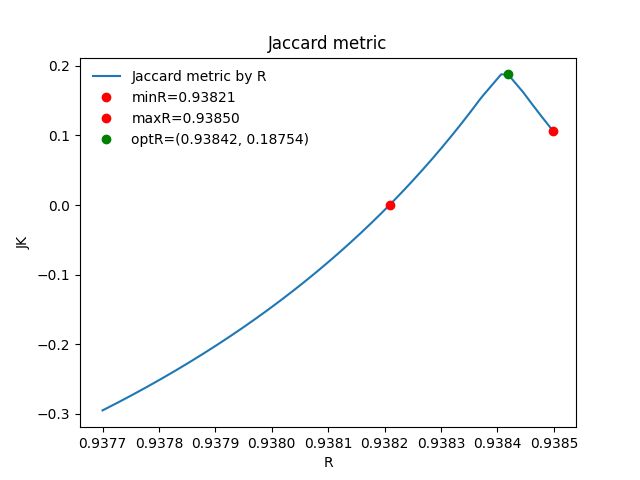
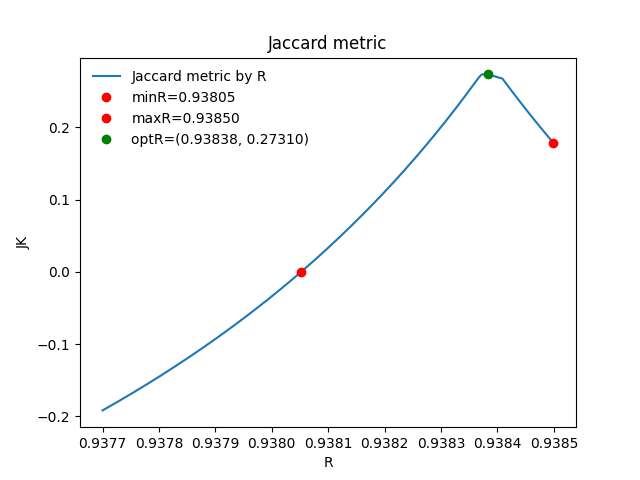
Added picture with interval regression and Jaccard for all steps

diff --git a/main_intervals.py b/main_intervals.py
@@ -85,6 +85,25 @@ def draw_all_intervals(intervals, optimal_m, need_save=True, save_path=''):
     plt.show()
 
 
+def draw_all_intervals_edge(intervals, start, optimal_m, need_save=True, save_path=''):
+    data_len = (len(intervals[0]))
+    x = np.arange(start, start + data_len, 1, dtype=int)
+    y_err = [(interval[1] - interval[0]) / 2 for interval in intervals[0]]
+    y = [interval[1] - y_err[num] for num, interval in enumerate(intervals[0])]
+    plt.errorbar(x, y, yerr=y_err, ecolor='cyan', label='intervals_ch_1', elinewidth=0.8, capsize=4,
+                 capthick=1)
+    y_err = [optimal_m * (interval[1] - interval[0]) / 2 for interval in intervals[1]]
+    y = [optimal_m * interval[1] - y_err[num] for num, interval in enumerate(intervals[1])]
+    plt.errorbar(x, y, yerr=y_err, ecolor='red', label='intervals_ch_2', elinewidth=0.8, capsize=4,
+                 capthick=1)
+    plt.legend(frameon=False)
+    plt.title(f'Intervals intersection')
+    plt.xlabel("n")
+    plt.ylabel("mV")
+    if need_save:
+        plt.savefig(f'{save_path}/weighted_intervals.png')
+    plt.show()
+
 def get_regression_intervals(params, len_of_intervals=200):
     x = np.arange(1, len_of_intervals + 1, 1, dtype=int)
     intervals = []
@@ -115,15 +134,134 @@ def draw_interval_regression(intervals, params, need_save=True, save_path=''):
         plt.show()
 
 
+def draw_interval_with_edge(intervals, edge_points, need_save=True, save_path=''):
+    data_len = (len(intervals[0]))
+    x = np.arange(1, data_len + 1, 1, dtype=int)
+    for num, data_l in enumerate(intervals, start=0):
+        y_err = [(interval[1] - interval[0]) / 2 for interval in intervals[num]]
+        y = [interval[1] - y_err[num] for num, interval in enumerate(intervals[num])]
+        plt.errorbar(x[:edge_points[num][0]], y[:edge_points[num][0]], yerr=y_err[:edge_points[num][0]], ecolor='cyan', label=f'set 1, {edge_points[num][0] - 1}', elinewidth=0.8, capsize=4,
+                     capthick=1)
+        plt.errorbar(x[edge_points[num][0]:edge_points[num][1]], y[edge_points[num][0]:edge_points[num][1]], yerr=y_err[edge_points[num][0]:edge_points[num][1]], ecolor='green',
+                     label=f'set {edge_points[num][0]}, {edge_points[num][1] - 1}', elinewidth=0.8, capsize=4,
+                     capthick=1)
+        plt.errorbar(x[edge_points[num][1]:], y[edge_points[num][1]:], yerr=y_err[edge_points[num][1]:],
+                     ecolor='red',
+                     label=f'set {edge_points[num][1]}, 200', elinewidth=0.8, capsize=4,
+                     capthick=1)
+        plt.legend(frameon=False)
+        plt.title(f'Chanel_{num + 1} sets of intervals')
+        plt.xlabel("n")
+        plt.ylabel("mV")
+        if need_save:
+            plt.savefig(f'{save_path}/sets_of_intervals_ch_{num + 1}.png')
+        plt.show()
+
+
+def dif_drift_component_edge(interval_d, edge_points, drift_params_3):
+    new_list = []
+    for list_num, list_ in enumerate(interval_d):
+        new_list__ = []
+        for num, drift_param in enumerate(drift_params_3[list_num]):
+            if num == 0:
+                new_list_ = list_[:edge_points[list_num][0]]
+                start = 0
+            elif num == 1:
+                new_list_ = list_[edge_points[list_num][0]:edge_points[list_num][1]]
+                start = edge_points[list_num][0]
+            else:
+                new_list_ = list_[edge_points[list_num][1]:]
+                start = edge_points[list_num][1]
+            for num_, interval in enumerate(new_list_, start=start):
+                new_list__.append([interval[0] - (num_ + 1) * drift_param[0][1],
+                                  interval[1] - (num_ + 1) * drift_param[0][0]])
+        new_list.append(new_list__)
+    return new_list
+
+
+def get_regression_intervals_edge(edge_points, params, len_of_intervals=200):
+    intervals = []
+    for x in range(edge_points[0]):
+        intervals.append([params[0][0][0] * (x + 1) + params[0][1][0], params[0][0][1] * (x + 1) + params[0][1][1]])
+    for x in range(edge_points[0], edge_points[1]):
+        intervals.append([params[1][0][0] * (x + 1) + params[1][1][0], params[1][0][1] * (x + 1) + params[1][1][1]])
+    for x in range(edge_points[1], len_of_intervals):
+        intervals.append([params[2][0][0] * (x + 1) + params[2][1][0], params[2][0][1] * (x + 1) + params[2][1][1]])
+    return intervals
+
+
+def draw_interval_regression_edge(intervals, edge_points, params3, need_save=True, save_path=''):
+    data_len = (len(intervals[0]))
+    x = np.arange(1, data_len + 1, 1, dtype=int)
+    for num, data_l in enumerate(intervals, start=0):
+        y_err = [(interval[1] - interval[0]) / 2 for interval in intervals[num]]
+        y = [interval[1] - y_err[num] for num, interval in enumerate(intervals[num])]
+        plt.errorbar(x, y, yerr=y_err, ecolor='cyan', label=f'intervals_ch_{num + 1}', elinewidth=0.8, capsize=4,
+                     capthick=1)
+        reg_intervals = get_regression_intervals_edge(edge_points[num], params3[num])
+        y_err = [(interval[1] - interval[0]) / 2 for interval in reg_intervals]
+        y = [interval[1] - y_err[num] for num, interval in enumerate(reg_intervals)]
+        plt.errorbar(x, y, yerr=y_err, ecolor='red', label='interval regression', elinewidth=0.8, capsize=4,
+                     capthick=1)
+        plt.legend(frameon=False)
+        plt.title(f'Chanel_{num + 1} interval regression with 3 section')
+        plt.xlabel("n")
+        plt.ylabel("mV")
+        if need_save:
+            plt.savefig(f'{save_path}/regression_intervals_with_3_section_ch_{num + 1}.png')
+        plt.show()
+
+
+def get_out_coeff(data_list):
+    def get_point(interval):
+        interval_r = (interval[1] - interval[0]) / 2
+        return interval[1] - interval_r
+    out_coeff_l = []
+    for i in range(len(data_list[0])):
+        out_coeff_l.append(get_point(data_list[0][i]) / get_point(data_list[1][i]))
+    return out_coeff_l
+
 if __name__ == "__main__":
     data_postfix = '800nm_0.23mm.csv'
     interval_data = read_data_with_intervals(
         [f'./data/ch_1/Канал 1_{data_postfix}', f'./data/ch_2/Канал 2_{data_postfix}'])
     save_p = f'./pictures/intervals'
-    intervals_regression_drift_params = [[3.4551e-06, 4.2070e-06], [5.1628e-06, 6.2094e-06]]
-    intervals_regression_params = [([3.4551e-06, 4.2070e-06], [4.7202e-01, 4.7214e-01]), ([5.1628e-06, 6.2094e-06],
-                                                                                          [5.0301e-01, 5.0312e-01])]
-    draw_interval_regression(interval_data, intervals_regression_params, True, save_path=save_p)
-    intervals_w_o_drift = dif_drift_component(interval_data, intervals_regression_drift_params)
-    opt_m = get_inner_r(intervals_w_o_drift, [0.9377, 0.9385], True, save_path=save_p)
-    draw_all_intervals(intervals_w_o_drift, opt_m[0], True, save_path=save_p)
+    #intervals_regression_drift_params = [[3.4551e-06, 4.2070e-06], [5.1628e-06, 6.2094e-06]]
+    #intervals_regression_params = [([3.4551e-06, 4.2070e-06], [4.7202e-01, 4.7214e-01]), ([5.1628e-06, 6.2094e-06],
+   #                                                                                       [5.0301e-01, 5.0312e-01])]
+    #draw_interval_regression(interval_data, intervals_regression_params, True, save_path=save_p)
+    #intervals_w_o_drift = dif_drift_component(interval_data, intervals_regression_drift_params)
+
+    #opt_m = get_inner_r(intervals_w_o_drift, [0.9377, 0.9385], True, save_path=save_p)
+   # draw_all_intervals(intervals_w_o_drift, opt_m[0], True, save_path=save_p)
+    #draw_interval_with_edge(interval_data, [[43, 178], [41, 190]], True, save_path=save_p)
+    edge_points_ = [[43, 178], [41, 190]]
+    intervals_regression_params_3 = [[([8.3824e-07, 1.0232e-05], [4.7195e-01, 4.7214e-01]),
+                                      ([1.2508e-06, 4.1690e-06], [4.7202e-01, 4.7235e-01]),
+                                      ([2.6455e-06, 1.8289e-05], [4.6932e-01, 4.7230e-01])],
+                                     [([2.4444e-06, 1.1782e-05], [5.0295e-01, 5.0313e-01]),
+                                      ([3.8147e-06, 6.2514e-06], [5.0300e-01, 5.0329e-01]),
+                                      ([0.0, 3.7425e-05], [4.9690e-01, 5.0420e-01])]]
+    intervals_reg_w_o_drift = dif_drift_component_edge(interval_data, edge_points_, intervals_regression_params_3)
+    #draw_interval_regression_edge(interval_data, edge_points_, intervals_regression_params_3, True, save_path=save_p)
+    out_coeff = get_out_coeff([interval_data[0][:41], interval_data[1][:41]])
+    R_outer = [min(out_coeff), max(out_coeff)]
+    print(R_outer)
+    opt_m = get_inner_r([intervals_reg_w_o_drift[0][:41], intervals_reg_w_o_drift[1][:41]], R_outer, True,
+                        save_path=save_p+'/40')
+    draw_all_intervals_edge([intervals_reg_w_o_drift[0][:41], intervals_reg_w_o_drift[1][:41]], 0, opt_m[0], True,
+                            save_path=save_p+'/40')
+    out_coeff = get_out_coeff([interval_data[0][41:177], interval_data[1][41:177]])
+    R_outer = [min(out_coeff), max(out_coeff)]
+    print(R_outer)
+    opt_m = get_inner_r([intervals_reg_w_o_drift[0][41:177], intervals_reg_w_o_drift[1][41:177]], R_outer, True,
+                        save_path=save_p + '/177')
+    draw_all_intervals_edge([intervals_reg_w_o_drift[0][41:177], intervals_reg_w_o_drift[1][41:177]], 41, opt_m[0], True,
+                            save_path=save_p + '/177')
+    out_coeff = get_out_coeff([interval_data[0][177:], interval_data[1][177:]])
+    R_outer = [min(out_coeff), max(out_coeff)]
+    print(R_outer)
+    opt_m = get_inner_r([intervals_reg_w_o_drift[0][177:], intervals_reg_w_o_drift[1][177:]], R_outer, True,
+                        save_path=save_p + '/200')
+    draw_all_intervals_edge([intervals_reg_w_o_drift[0][177:], intervals_reg_w_o_drift[1][177:]], 177, opt_m[0], True,
+                            save_path=save_p + '/200')
